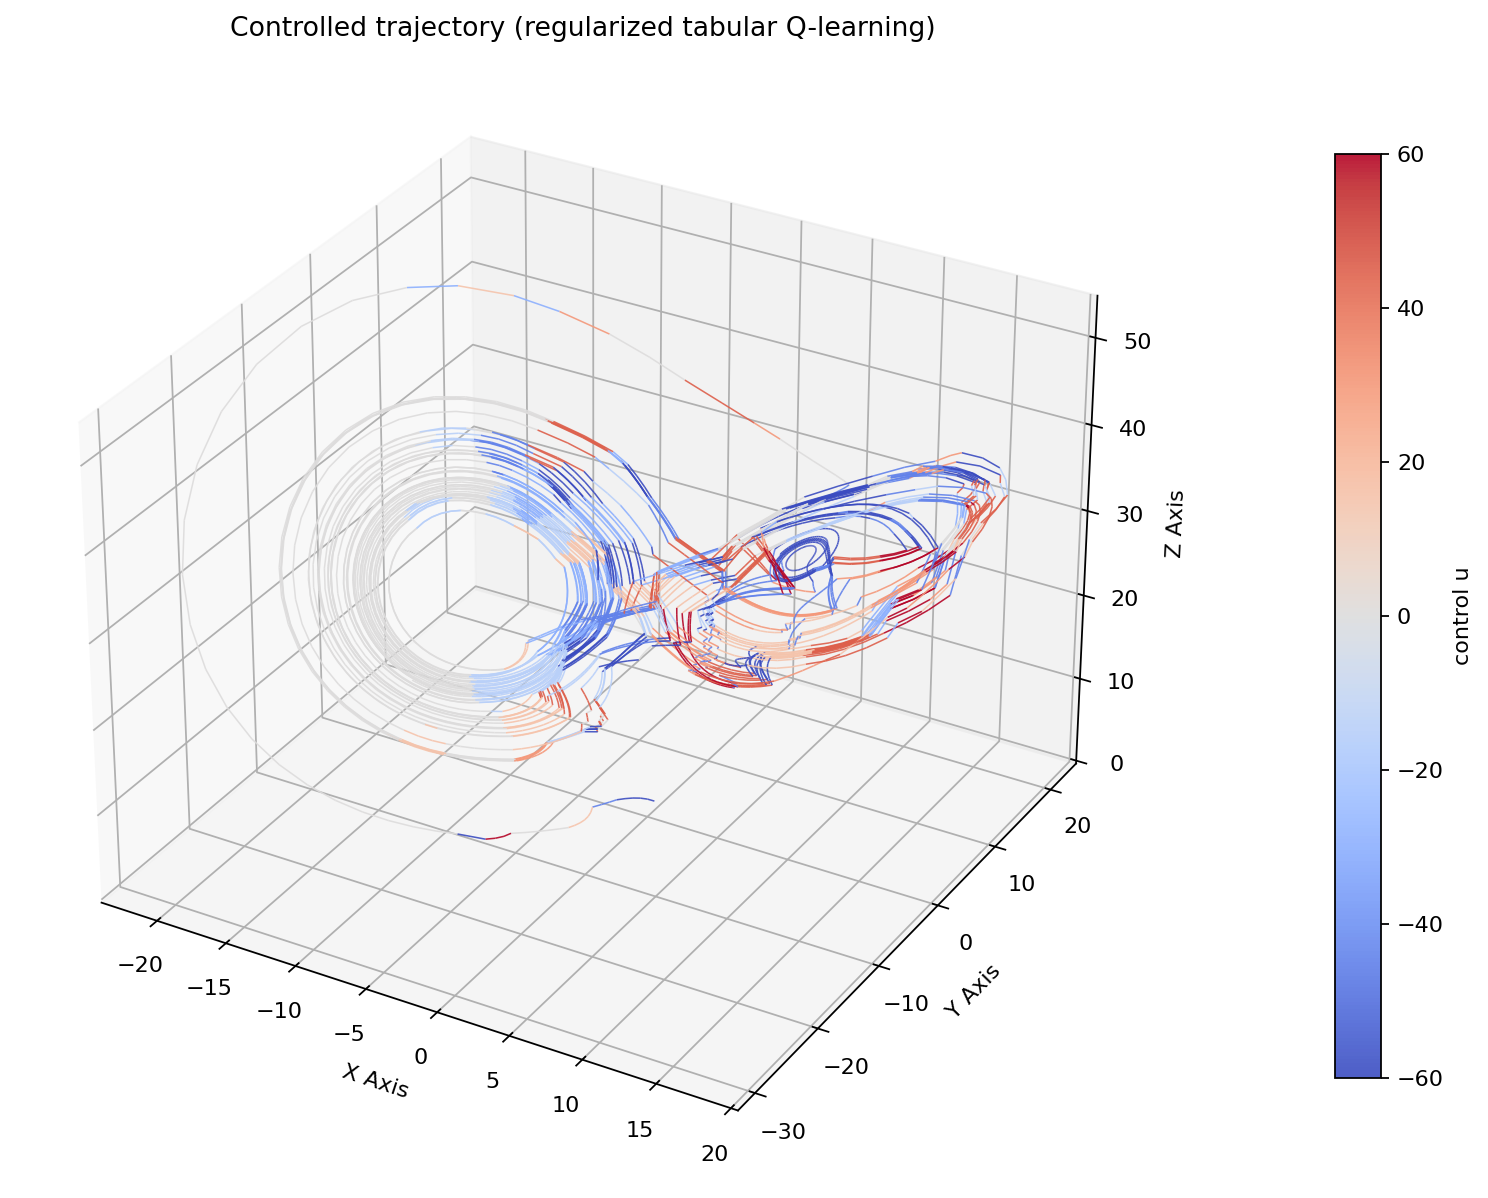
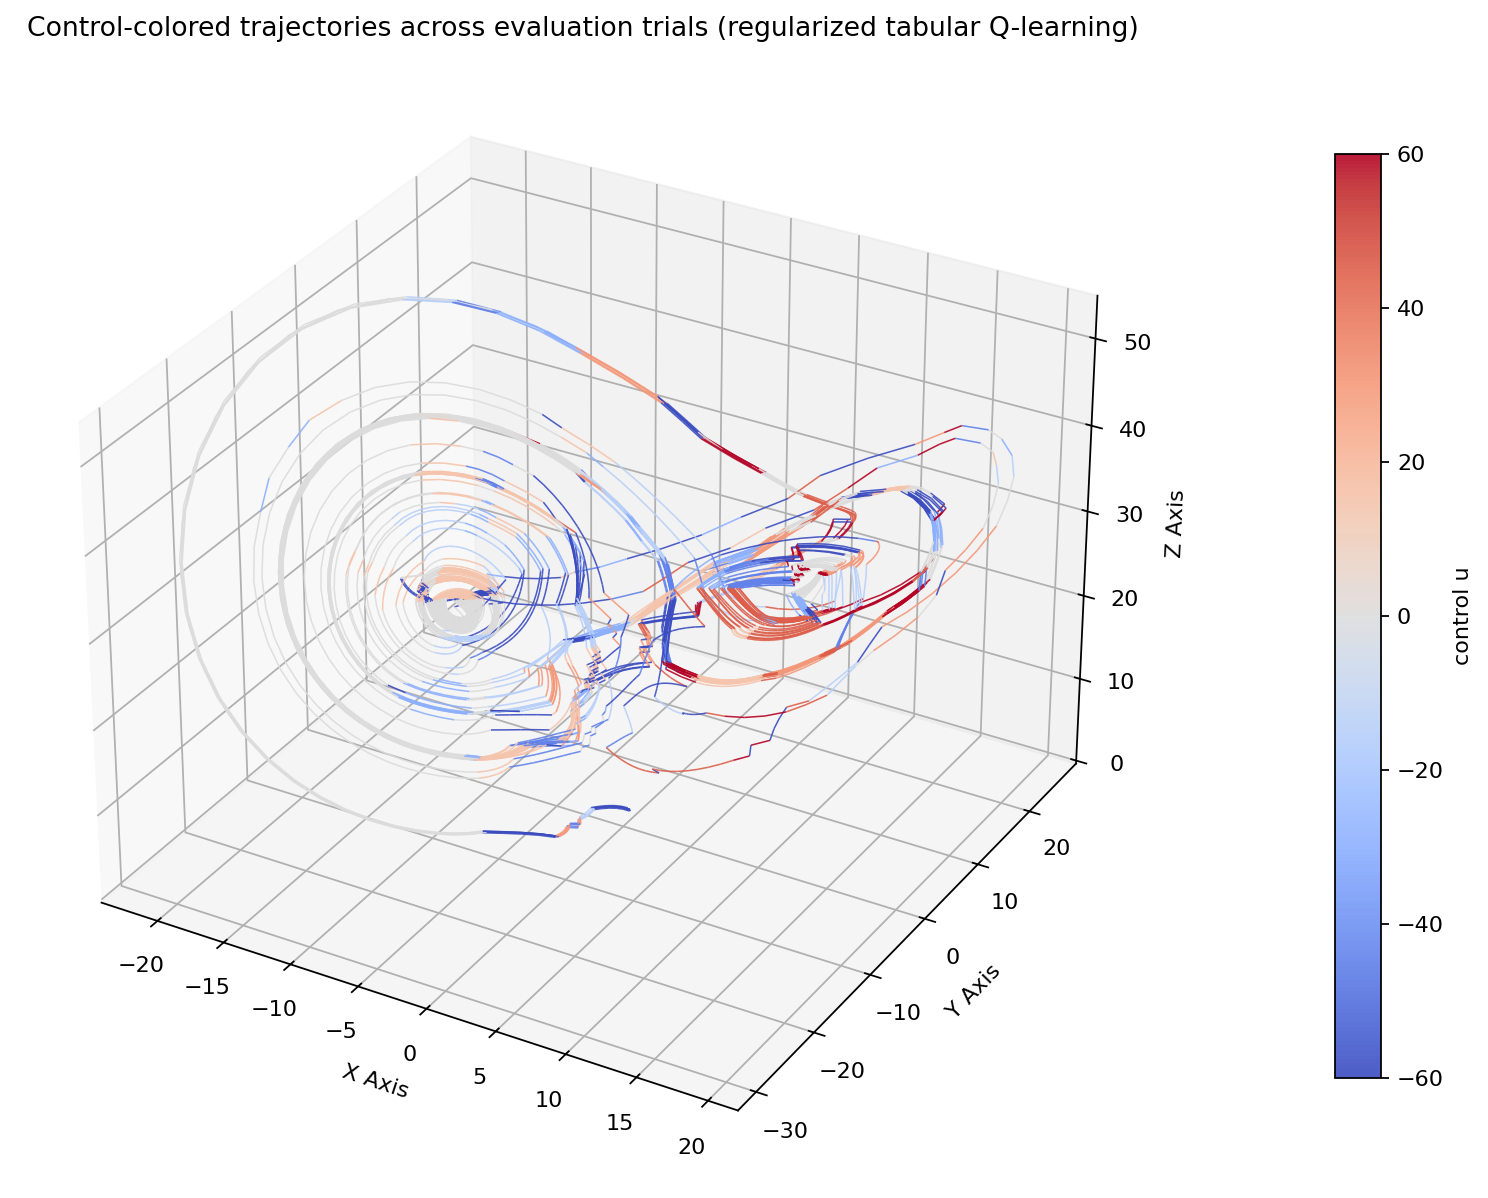
Expand Q-learning evaluation diagnostics

diff --git a/Pytorch/Chaos Research/Q-Learning/PlotQLearning.py b/Pytorch/Chaos Research/Q-Learning/PlotQLearning.py
@@ -77,9 +77,11 @@ def _finish_figure(
     *,
     show: bool,
     dpi: int,
+    tight_layout: bool = True,
 ) -> None:
     """Save and/or display a completed Matplotlib figure."""
-    figure.tight_layout()
+    if tight_layout:
+        figure.tight_layout()
     if output_path is not None:
         output_path.parent.mkdir(parents=True, exist_ok=True)
         figure.savefig(output_path, dpi=dpi, bbox_inches="tight")
@@ -226,36 +228,112 @@ def plot_evaluation_diagnostics(
         ):
             raise ValueError("Each evaluation trajectory must have shape (n, 3)")
 
-    first_trajectory = trajectory_arrays[0]
-    first_controls = np.asarray(controls[0], dtype=np.float64)
-    if first_controls.ndim != 1:
-        raise ValueError("Each evaluation control sequence must be one-dimensional")
-    expected_controls = first_trajectory.shape[0] - 1
-    if first_controls.size != expected_controls:
-        raise ValueError(
-            "The first control sequence must contain one value per transition; "
-            f"expected {expected_controls}, received {first_controls.size}"
-        )
-    state_times = _lyapunov_time_axis(first_trajectory.shape[0])
-    control_times = state_times[:-1]
-    rounded_time_end = float(np.rint(state_times[-1]))
+    control_arrays = [np.asarray(values, dtype=np.float64) for values in controls]
+    for trial, (trajectory, control_values) in enumerate(
+        zip(trajectory_arrays, control_arrays), start=1
+    ):
+        if control_values.ndim != 1:
+            raise ValueError(
+                "Each evaluation control sequence must be one-dimensional"
+            )
+        expected_controls = trajectory.shape[0] - 1
+        if control_values.size != expected_controls:
+            raise ValueError(
+                f"Evaluation trial {trial} must contain one control value "
+                f"per transition; expected {expected_controls}, received "
+                f"{control_values.size}"
+            )
+
+    state_time_axes = [
+        _lyapunov_time_axis(trajectory.shape[0]) for trajectory in trajectory_arrays
+    ]
+    control_time_axes = [times[:-1] for times in state_time_axes]
+    actual_time_end = max(float(times[-1]) for times in state_time_axes)
+    rounded_time_end = float(np.rint(actual_time_end))
     display_time_end = (
         rounded_time_end
         if rounded_time_end >= 1.0
-        and np.isclose(state_times[-1], rounded_time_end, atol=0.02)
-        else float(state_times[-1])
+        and np.isclose(actual_time_end, rounded_time_end, atol=0.02)
+        else actual_time_end
     )
 
     def output_path(filename: str) -> Path | None:
         return None if output_dir is None else output_dir / filename
+
+    representative_trajectory = trajectory_arrays[0]
+    representative_controls = control_arrays[0]
+    representative_times = state_time_axes[0]
+    representative_control_times = control_time_axes[0]
+
+    corrected_figure, (corrected_state_axis, corrected_control_axis) = plt.subplots(
+        2,
+        1,
+        figsize=(14, 9),
+        sharex=True,
+        gridspec_kw={"height_ratios": (1.15, 1.0), "hspace": 0.14},
+    )
+    corrected_figure.suptitle(
+        "Closed-loop Lorenz trajectory with greedy Q-learning correction",
+        fontsize=15,
+    )
+    for coordinate, label in enumerate(("x", "y", "z")):
+        corrected_state_axis.plot(
+            representative_times,
+            representative_trajectory[:, coordinate],
+            linewidth=0.8,
+            label=label,
+        )
+    corrected_state_axis.axhline(
+        0.0,
+        color="black",
+        linestyle="--",
+        linewidth=1.0,
+    )
+    corrected_state_axis.set_ylabel("State")
+    corrected_state_axis.set_title("Controlled Lorenz state")
+    corrected_state_axis.grid(alpha=0.25)
+    corrected_state_axis.legend(loc="upper right", ncol=3)
+
+    corrected_control_axis.step(
+        representative_control_times,
+        representative_controls,
+        where="post",
+        color="crimson",
+        linewidth=0.75,
+    )
+    corrected_control_axis.axhline(
+        0.0,
+        color="black",
+        linestyle="--",
+        linewidth=1.0,
+    )
+    corrected_control_axis.set_xlim(0.0, display_time_end)
+    corrected_control_axis.set_xlabel("Lyapunov times (t / τ)")
+    corrected_control_axis.set_ylabel("Control correction u")
+    corrected_control_axis.set_title("Correction applied to the x dynamics")
+    corrected_control_axis.grid(alpha=0.25)
+    corrected_figure.subplots_adjust(
+        left=0.07,
+        right=0.98,
+        bottom=0.08,
+        top=0.91,
+        hspace=0.20,
+    )
+    _finish_figure(
+        corrected_figure,
+        output_path("evaluation_corrected_trajectory.png"),
+        show=show,
+        dpi=dpi,
+        tight_layout=False,
+    )
 
     trajectory_figure = plt.figure(figsize=(9, 7))
     trajectory_axis = trajectory_figure.add_subplot(111, projection="3d")
     trajectory_colors = plt.cm.viridis(
         np.linspace(0.08, 0.92, len(trajectory_arrays))
     )
-    label_episodes = len(trajectory_arrays) <= 10
-    for episode, (trajectory, color) in enumerate(
+    label_trials = len(trajectory_arrays) <= 10
+    for trial, (trajectory, color) in enumerate(
         zip(trajectory_arrays, trajectory_colors), start=1
     ):
         trajectory_axis.plot(
@@ -265,14 +343,14 @@ def plot_evaluation_diagnostics(
             color=color,
             linewidth=0.65,
             alpha=0.85,
-            label=f"Episode {episode}" if label_episodes else None,
+            label=f"Trial {trial}" if label_trials else None,
         )
     trajectory_axis.set_xlabel("x")
     trajectory_axis.set_ylabel("y")
     trajectory_axis.set_zlabel("z")
-    trajectory_axis.set_title("All evaluation trajectories")
-    if label_episodes:
-        trajectory_axis.legend()
+    trajectory_axis.set_title("Evaluation trajectories across initial-condition trials")
+    if label_trials:
+        trajectory_axis.legend(title="Evaluation trial")
     _finish_figure(
         trajectory_figure,
         output_path("evaluation_trajectory.png"),
@@ -280,12 +358,17 @@ def plot_evaluation_diagnostics(
         dpi=dpi,
     )
 
-    attractor_segments = np.stack(
-        (first_trajectory[:-1], first_trajectory[1:]),
-        axis=1,
+    attractor_segments = np.concatenate(
+        [
+            np.stack((trajectory[:-1], trajectory[1:]), axis=1)
+            for trajectory in trajectory_arrays
+        ],
+        axis=0,
     )
-    control_min = float(np.min(first_controls))
-    control_max = float(np.max(first_controls))
+    all_control_values = np.concatenate(control_arrays)
+    all_trajectory_points = np.concatenate(trajectory_arrays, axis=0)
+    control_min = float(np.min(all_control_values))
+    control_max = float(np.max(all_control_values))
     if np.isclose(control_min, control_max):
         color_padding = max(1.0, abs(control_min) * 0.05)
         control_min -= color_padding
@@ -301,17 +384,20 @@ def plot_evaluation_diagnostics(
         linewidth=0.7,
         alpha=0.9,
     )
-    colored_trajectory.set_array(first_controls)
+    colored_trajectory.set_array(all_control_values)
     attractor_axis.add_collection3d(colored_trajectory)
     attractor_axis.auto_scale_xyz(
-        first_trajectory[:, 0],
-        first_trajectory[:, 1],
-        first_trajectory[:, 2],
+        all_trajectory_points[:, 0],
+        all_trajectory_points[:, 1],
+        all_trajectory_points[:, 2],
     )
     attractor_axis.set_xlabel("X Axis")
     attractor_axis.set_ylabel("Y Axis")
     attractor_axis.set_zlabel("Z Axis")
-    attractor_axis.set_title("Controlled trajectory (regularized tabular Q-learning)")
+    attractor_axis.set_title(
+        "Control-colored trajectories across evaluation trials "
+        "(regularized tabular Q-learning)"
+    )
     attractor_figure.colorbar(
         colored_trajectory,
         ax=attractor_axis,
@@ -326,21 +412,42 @@ def plot_evaluation_diagnostics(
         dpi=dpi,
     )
 
-    state_figure, state_axis = plt.subplots(figsize=(14, 5))
-    for index, label in enumerate(("x", "y", "z")):
-        state_axis.plot(
-            state_times,
-            first_trajectory[:, index],
-            linewidth=0.8,
-            label=label,
+    state_figure, state_axes = plt.subplots(
+        3,
+        1,
+        figsize=(14, 10),
+        sharex=True,
+    )
+    state_figure.suptitle(
+        "State response across evaluation trials\n"
+        "Same greedy Q-table; each color starts from a separately perturbed "
+        "initial state"
+    )
+    for coordinate, (state_axis, coordinate_label) in enumerate(
+        zip(state_axes, ("x", "y", "z"))
+    ):
+        for trial, (trajectory, times, color) in enumerate(
+            zip(trajectory_arrays, state_time_axes, trajectory_colors), start=1
+        ):
+            state_axis.plot(
+                times,
+                trajectory[:, coordinate],
+                color=color,
+                linewidth=0.55,
+                alpha=0.62,
+                label=f"Trial {trial}" if label_trials else None,
+            )
+        state_axis.axhline(0.0, color="black", linestyle="--", linewidth=0.8)
+        state_axis.set_xlim(0.0, display_time_end)
+        state_axis.set_ylabel(coordinate_label)
+        state_axis.grid(alpha=0.25)
+    state_axes[-1].set_xlabel("Lyapunov times (t / τ)")
+    if label_trials:
+        state_axes[0].legend(
+            loc="upper right",
+            ncol=len(trajectory_arrays),
+            title="Initial-condition trial",
         )
-    state_axis.axhline(0.0, color="black", linestyle="--", linewidth=1.0)
-    state_axis.set_xlim(0.0, display_time_end)
-    state_axis.set_xlabel("Lyapunov times (t / τ)")
-    state_axis.set_ylabel("State")
-    state_axis.set_title("Controlled Lorenz trajectory: first evaluation episode")
-    state_axis.grid(alpha=0.25)
-    state_axis.legend(loc="upper right", ncol=3)
     _finish_figure(
         state_figure,
         output_path("evaluation_state_coordinates.png"),
@@ -349,12 +456,29 @@ def plot_evaluation_diagnostics(
     )
 
     control_figure, control_axis = plt.subplots(figsize=(14, 4))
-    control_axis.step(control_times, first_controls, where="post", color="tab:orange")
+    for trial, (control_times, control_values, color) in enumerate(
+        zip(control_time_axes, control_arrays, trajectory_colors), start=1
+    ):
+        control_axis.step(
+            control_times,
+            control_values,
+            where="post",
+            color=color,
+            linewidth=0.75,
+            alpha=0.75,
+            label=f"Trial {trial}" if label_trials else None,
+        )
     control_axis.set_xlim(0.0, display_time_end)
     control_axis.set_xlabel("Lyapunov times (t / τ)")
     control_axis.set_ylabel("Control u")
-    control_axis.set_title("First evaluation episode: greedy control signal")
+    control_axis.set_title("Greedy control signals across evaluation trials")
     control_axis.grid(alpha=0.25)
+    if label_trials:
+        control_axis.legend(
+            loc="upper right",
+            ncol=len(control_arrays),
+            title="Evaluation trial",
+        )
     _finish_figure(
         control_figure,
         output_path("evaluation_control_signal.png"),
@@ -367,7 +491,7 @@ def plot_evaluation_diagnostics(
     colors = np.where(diverged, "tab:red", "tab:purple")
     reward_axis.bar(episode_numbers, rewards, color=colors, alpha=0.82)
     reward_axis.axhline(float(np.mean(rewards)), color="black", linestyle="--", linewidth=1)
-    reward_axis.set_xlabel("Evaluation episode")
+    reward_axis.set_xlabel("Evaluation trial")
     reward_axis.set_ylabel("Total reward")
     reward_axis.set_xticks(episode_numbers)
     reward_axis.set_title(f"Evaluation rewards (mean {np.mean(rewards):.2f})")

diff --git a/Pytorch/Chaos Research/Q-Learning/QLearning.py b/Pytorch/Chaos Research/Q-Learning/QLearning.py
@@ -80,7 +80,7 @@ class ExperimentDefaults:
     learning_rate: float = 0.01
     discount_factor: float = 1.0
     epsilon: float = 1.0
-    epsilon_decay: float = 0.50
+    epsilon_decay: float = 0.05
     epsilon_min: float = 0.05
 
     # Initial-condition perturbation
@@ -303,7 +303,7 @@ class LorenzEnvEuler:
         if self.regularized:
             control_cost = self.alpha * (u / self.u_ref) ** 2 / self.horizon
         reward = -float(state_cost + control_cost)
-
+        #Here is the PHI REWARD FUNCITON
         done = diverged
         info: Dict[str, bool] = {}
         if diverged:
